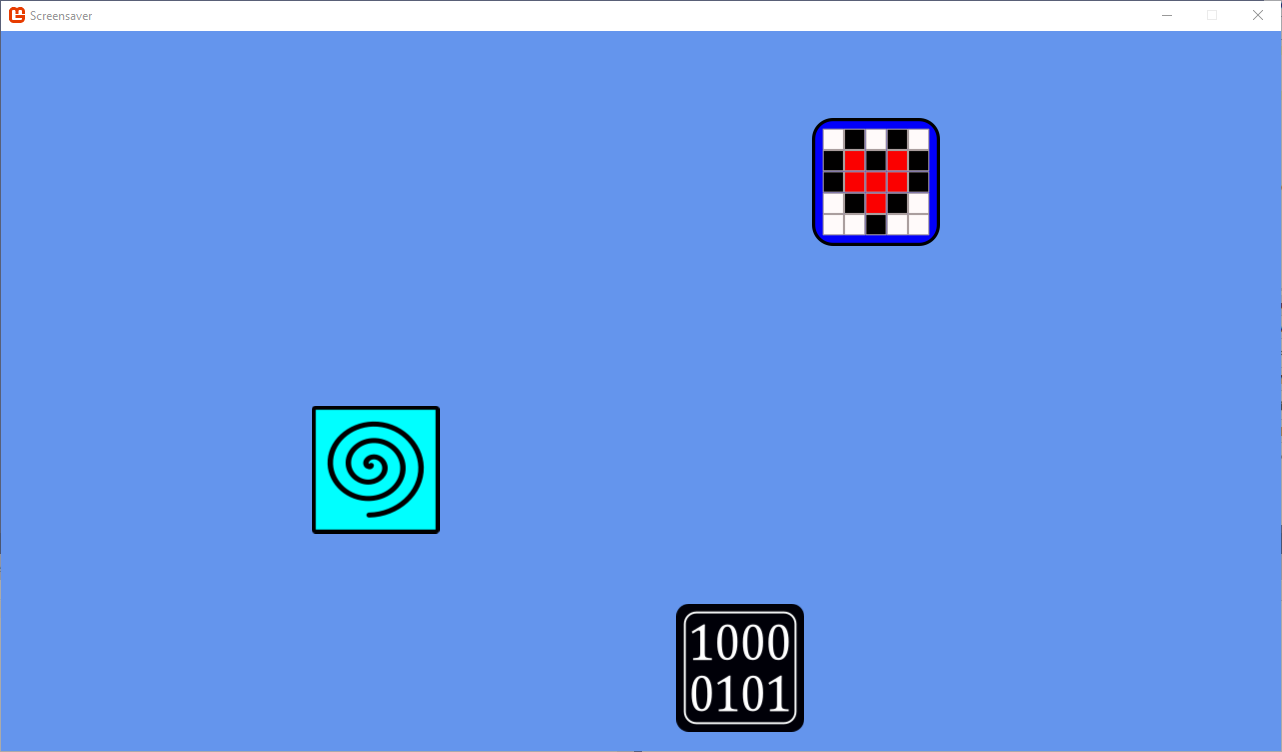
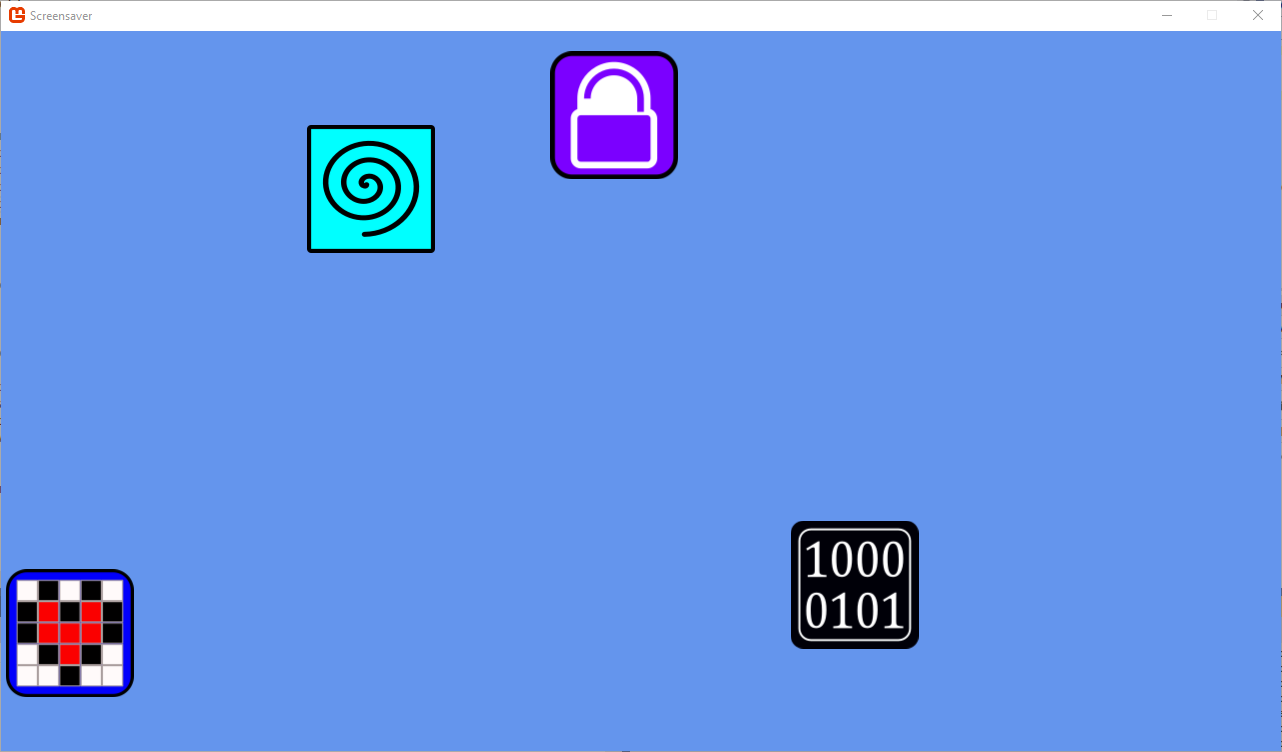
v3 various change
Update MonoGame to version 3.8.1.303.
Add bounce angle.
Code refactoring.
Add new icon.
Update README.md.

diff --git a/GameIcon.cs b/GameIcon.cs
@@ -1,6 +1,5 @@
 using Microsoft.Xna.Framework;
 using Microsoft.Xna.Framework.Graphics;
-using System;
 
 namespace Screensaver
 {
@@ -17,7 +16,7 @@ namespace Screensaver
         private float _iconWidth, _iconHeight;
 
         public GameIcon(Texture2D gameIcon, Vector2 iconPosition, double speed, Vector2 direction, 
-            float screenWidth, float screenHeight, float iconWidth, float iconHeight)
+            float screenWidth, float screenHeight)
         {
             _gameIcon = gameIcon;
             _iconPosition = iconPosition;
@@ -26,8 +25,8 @@ namespace Screensaver
             _targetPostion = new Vector2();
             _screenWidth = screenWidth;
             _screenHeight = screenHeight;
-            _iconWidth = iconWidth;
-            _iconHeight = iconHeight;
+            _iconWidth = gameIcon.Width;
+            _iconHeight = gameIcon.Height;
         }
         public void UpdateIconPosition(double elepsedTime)
         {
@@ -44,7 +43,7 @@ namespace Screensaver
                 else
                 {
                     _iconPosition.X = 2 * (_screenWidth - _iconWidth) - _targetPostion.X;
-                    _directionMove.X = -1.0f;
+                    _directionMove.X = -_directionMove.X;
                 }
             }
             else
@@ -56,7 +55,7 @@ namespace Screensaver
                 else
                 {
                     _iconPosition.X = -_targetPostion.X;
-                    _directionMove.X = +1.0f;
+                    _directionMove.X = -_directionMove.X;
                 }
             }
 
@@ -71,7 +70,7 @@ namespace Screensaver
                 else
                 {
                     _iconPosition.Y = 2 * (_screenHeight - _iconHeight) - _targetPostion.Y;
-                    _directionMove.Y = -1.0f;
+                    _directionMove.Y = -_directionMove.Y;
                 }
             }
             else
@@ -83,17 +82,13 @@ namespace Screensaver
                 else
                 {
                     _iconPosition.Y = -_targetPostion.Y;
-                    _directionMove.Y = +1.0f;
+                    _directionMove.Y = -_directionMove.Y;
                 }
             }
         }
-        public Texture2D GetGameIconTexture2D()
+        public void DrawIcon(SpriteBatch spriteBatch)
         {
-            return _gameIcon;
-        }
-        public Vector2 GetIconPosition()
-        {
-            return _iconPosition;
+            spriteBatch.Draw(_gameIcon, _iconPosition, Color.White);
         }
     }
 }

diff --git a/Game1.cs b/Game1.cs
@@ -34,9 +34,10 @@ namespace Screensaver
             _spriteBatch = new SpriteBatch(GraphicsDevice);
 
             List<GameIconInit> listGameIconInit = new List<GameIconInit>();
-            listGameIconInit.Add(new GameIconInit("BG_Icon_128", new Vector2(300.0f, 300.0f), new Vector2(1.0f, 1.0f), 250.0D));
-            listGameIconInit.Add(new GameIconInit("P_Icon_128", new Vector2(100.0f, 250.0f), new Vector2(-1.0f, 1.0f), 300.0D));
-            listGameIconInit.Add(new GameIconInit("FB3D_Icon_128", new Vector2(150.0f, 150.0f), new Vector2(-1.0f, -1.0f), 200.0D));
+            listGameIconInit.Add(new GameIconInit("BG_Icon_128", new Vector2(600.0f, 300.0f), 45.0d, 175.0d));
+            listGameIconInit.Add(new GameIconInit("P_Icon_128", new Vector2(100.0f, 250.0f), 110.0d, 200.0d));
+            listGameIconInit.Add(new GameIconInit("FB3D_Icon_128", new Vector2(550.0f, 150.0f), 225.0d, 225.0d));
+            listGameIconInit.Add(new GameIconInit("CB_Icon_128", new Vector2(450.0f, 350.0f), 285.0d, 250.0d));
             _gameIcons = InitalGameIcons(listGameIconInit);
         }
 
@@ -48,7 +49,7 @@ namespace Screensaver
             {
                 Texture2D iconTexture2D = Content.Load<Texture2D>(gameIconInit.GetIconPath());
                 GameIcon gameIcon = new GameIcon(iconTexture2D, gameIconInit.GetStartPosition(), gameIconInit.GetSpeed(), gameIconInit.GetDirection(),
-                    _graphics.PreferredBackBufferWidth, _graphics.PreferredBackBufferHeight, 128, 128);
+                    _graphics.PreferredBackBufferWidth, _graphics.PreferredBackBufferHeight);
                 listIcons.Add(gameIcon);
             }
 
@@ -75,7 +76,7 @@ namespace Screensaver
             _spriteBatch.Begin();
             foreach (GameIcon gameIcon in _gameIcons)
             {
-                _spriteBatch.Draw(gameIcon.GetGameIconTexture2D(), gameIcon.GetIconPosition(), Color.White);
+                gameIcon.DrawIcon(_spriteBatch);
             }
             _spriteBatch.End();
 

diff --git a/GameIconInit.cs b/GameIconInit.cs
@@ -1,4 +1,5 @@
 using Microsoft.Xna.Framework;
+using System;
 
 namespace Screensaver
 {
@@ -9,11 +10,12 @@ namespace Screensaver
         private Vector2 _direction;
         private double _speed;
 
-        public GameIconInit(string iconPath, Vector2 startPosition, Vector2 direction, double speed)
+        public GameIconInit(string iconPath, Vector2 startPosition, double angle, double speed)
         {
             _iconPath = iconPath;
             _startPosition = startPosition;
-            _direction = direction;
+            double radians = angle * (Math.PI / 180.0d);
+            _direction = new Vector2((float)Math.Cos(radians), (float)Math.Sin(radians));
             _speed = speed;
         }
 

diff --git a/README.md b/README.md
@@ -1,7 +1,13 @@
 # Screensaver
  Simple screensaver application. This is my first application for the MonoGame framework.
 
+ ## Builds
+Current and previous versions of builds here:
+https://drive.google.com/drive/folders/1qTKSrelfgHbFh0Bi7gwPwjZBw5eQ2HOM?usp=sharing
+
  ## Screenshot
+ All screenshots from current and previous versions are available here:
+ https://drive.google.com/drive/folders/18zXZotZHLQL6w_cuZ8hhnHgUG6y98AE4?usp=sharing
 
  ### Sample screen 1
  ![alt text](screenshot/Sample1.PNG)
